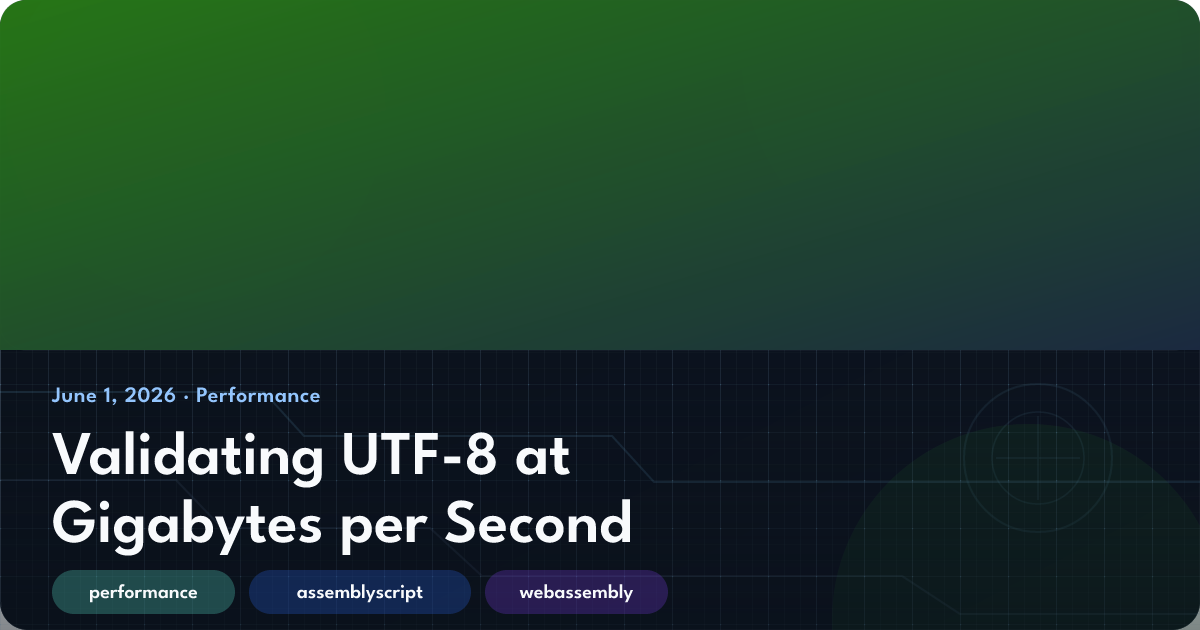
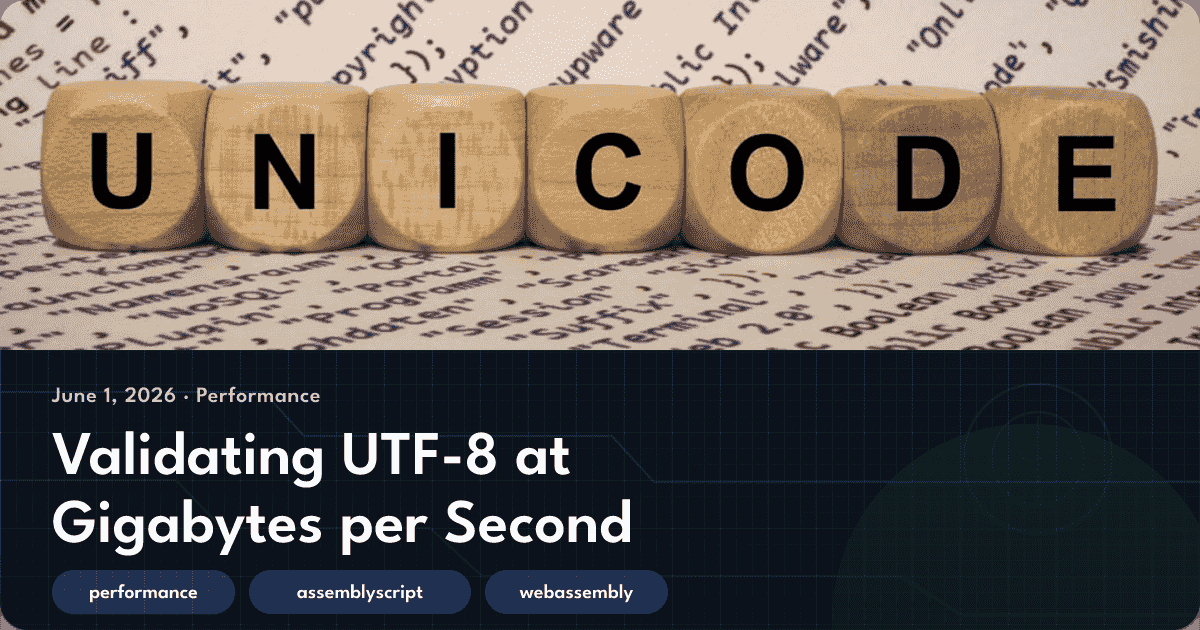
push

diff --git a/.vitepress/theme/custom.css b/.vitepress/theme/custom.css
@@ -1,3 +1,9 @@
+/* Archive: drop the TOC aside and let content fill, so the right gap
+   matches the ~32px gap between the sidebar and the content. */
+.archive-page .VPDoc .content-container {
+  max-width: none;
+}
+
 .post-banner {
   margin: 0 0 1.5rem;
 }

diff --git a/posts/index.md b/posts/index.md
@@ -1,6 +1,8 @@
 ---
 title: Archive
 description: Browse every post on Jairus' blog.
+aside: false
+pageClass: archive-page
 head:
   - - meta
     - property: 'og:title'
@@ -30,4 +32,4 @@ head:
     - name: 'twitter:image'
       content: 'https://blog.jairus.dev/logo.png'
 ---
-<PostCards title="All Posts" intro="Every post in one place. Add a new markdown file under `posts/`, and `npm run posts:sync` will assign the next `id`, preserve `createdAt`, and set missing `updatedAt` metadata." />
+<PostCards title="All Posts" intro="Every post in one place." />
